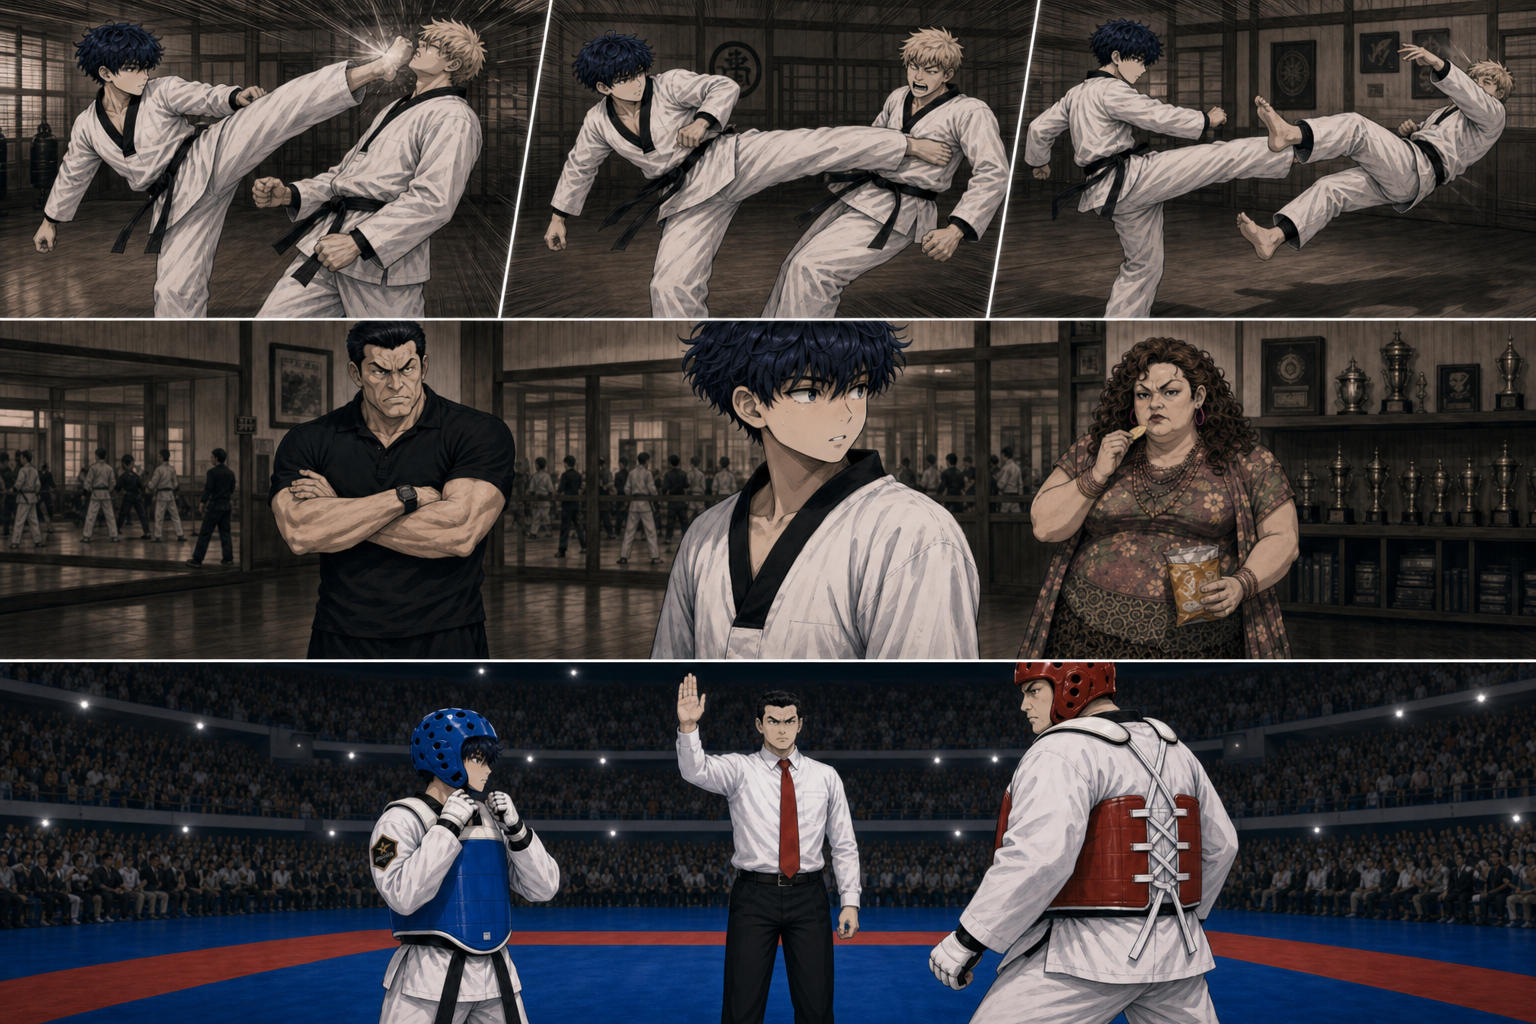
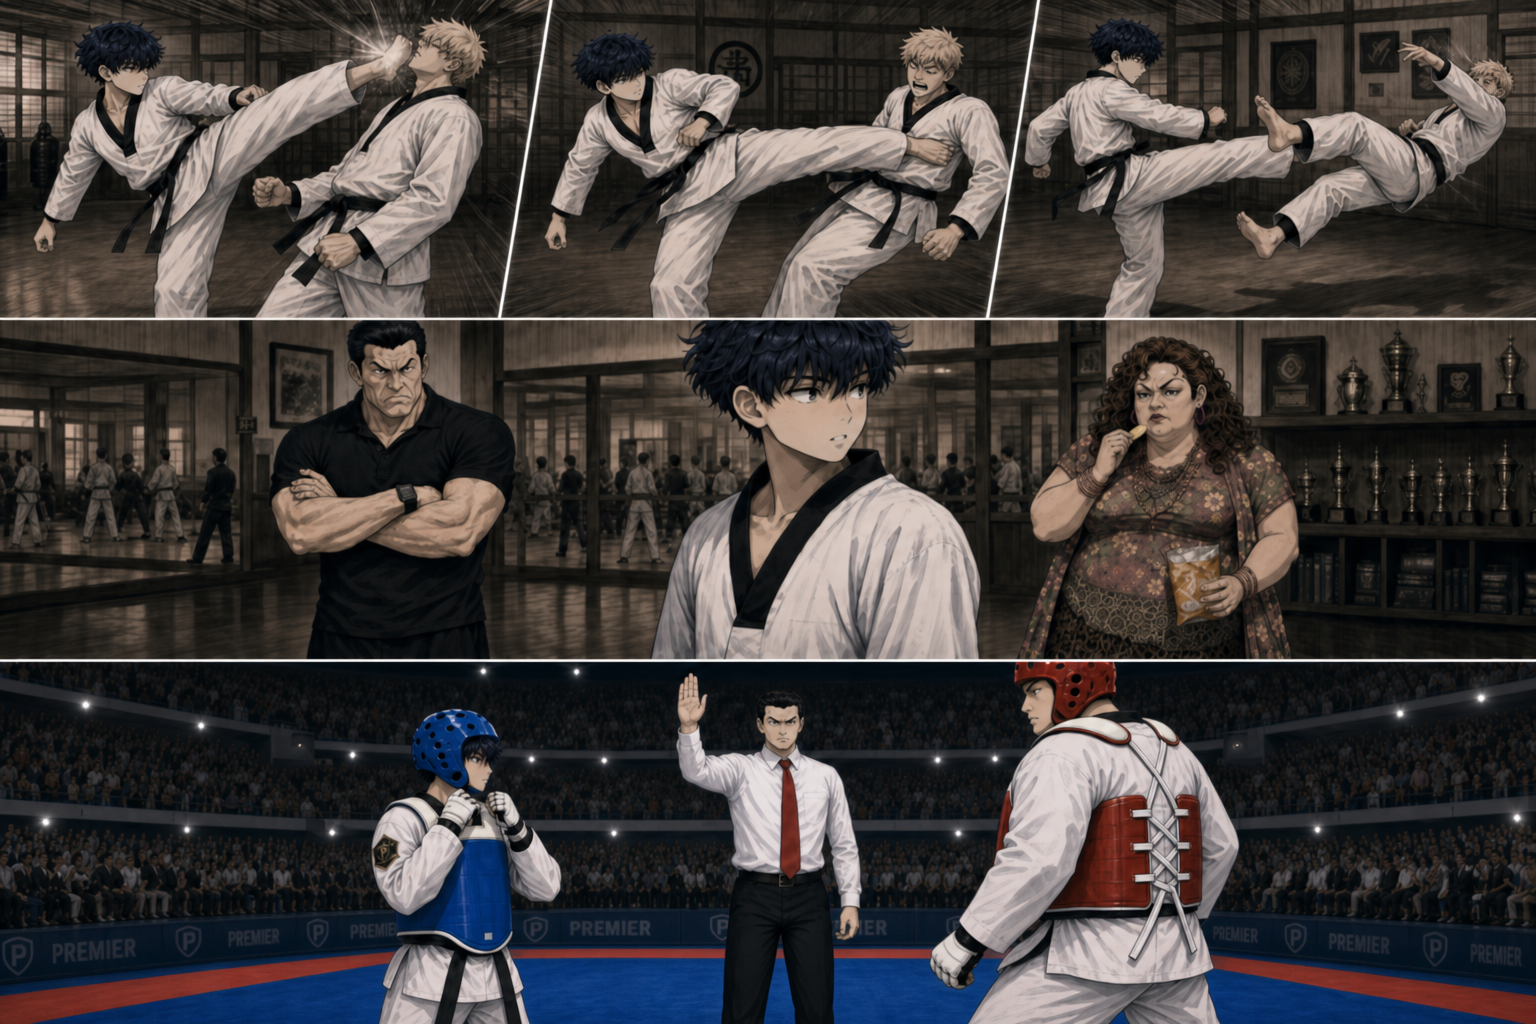
Lock red opponent character spec and update Page 5c ring start opponent.

diff --git a/arcs/new-beginnings/chapter-01.html b/arcs/new-beginnings/chapter-01.html
@@ -20,7 +20,7 @@
   </header>
 
   <main class="webtoon-manhwa">
-    <figure class="manhwa-page" id="manhwa-page0"><img src="../../gallery/strips/arc-01/chapter-01-page-0-prelude-voices.png?v=1781712610" alt="PAGE 0 — Voices in the dark (prelude)" loading="lazy" class="manhwa-page-img"></figure><figure class="manhwa-page" id="manhwa-page1a"><img src="../../gallery/strips/arc-01/chapter-01-page-1a-arrival.png?v=1781715004" alt="PAGE 1a — Arrival (1.1–1.3)" loading="lazy" class="manhwa-page-img"></figure><figure class="manhwa-page" id="manhwa-page1b"><img src="../../gallery/strips/arc-01/chapter-01-page-1b-change.png?v=1781714749" alt="PAGE 1b — Change (1.4, 1.6–1.7)" loading="lazy" class="manhwa-page-img"></figure><figure class="manhwa-page" id="manhwa-page2"><img src="../../gallery/strips/arc-01/chapter-01-page-2-neglect-warmup.png?v=1781715206" alt="PAGE 2 — Neglect &amp; Warmup (1.7b–1.8)" loading="lazy" class="manhwa-page-img"></figure><figure class="manhwa-page" id="manhwa-page4"><img src="../../gallery/strips/arc-01/chapter-01-page-3-isolation.png?v=1781715391" alt="PAGE 4 — Isolation &amp; Wait (1.17–1.26)" loading="lazy" class="manhwa-page-img"></figure><figure class="manhwa-page" id="manhwa-page5a"><img src="../../gallery/strips/arc-01/chapter-01-page-5a-bleachers-contract.png?v=1781716912" alt="PAGE 5a — Bleachers &amp; contract (1.27–1.28)" loading="lazy" class="manhwa-page-img"></figure><figure class="manhwa-page" id="manhwa-page5b"><img src="../../gallery/strips/arc-01/chapter-01-page-5b-called-walk.png?v=1781717090" alt="PAGE 5b — Called &amp; walk past (1.29–1.30)" loading="lazy" class="manhwa-page-img"></figure><figure class="manhwa-page" id="manhwa-page5c"><img src="../../gallery/strips/arc-01/chapter-01-page-5c-dojang-montage.png?v=1781718287" alt="PAGE 5c — Dojang montage &amp; ring start (1.31–1.33)" loading="lazy" class="manhwa-page-img"></figure><figure class="manhwa-page" id="manhwa-page6a"><img src="../../gallery/strips/arc-01/chapter-01-page-6a-cards-bounty.png?v=1781722280" alt="PAGE 6a — Fighter cards &amp; bounty (1.35–1.37)" loading="lazy" class="manhwa-page-img"></figure><figure class="manhwa-page" id="manhwa-page6b"><img src="../../gallery/strips/arc-01/chapter-01-page-6b-charge-hook.png?v=1781722598" alt="PAGE 6b — Charge &amp; hook kick (1.41–1.43)" loading="lazy" class="manhwa-page-img"></figure><figure class="manhwa-page" id="manhwa-page7"><img src="../../gallery/strips/arc-01/chapter-01-page-7-ko-aftermath.png?v=1781717433" alt="PAGE 7 — Score, silence &amp; black (1.44–1.45)" loading="lazy" class="manhwa-page-img"></figure><figure class="manhwa-page" id="manhwa-page8"><img src="../../gallery/strips/arc-01/chapter-01-page-8-wake.png?v=1781717605" alt="PAGE 8 — Wake (1.46–1.48)" loading="lazy" class="manhwa-page-img"></figure>
+    <figure class="manhwa-page" id="manhwa-page0"><img src="../../gallery/strips/arc-01/chapter-01-page-0-prelude-voices.png?v=1781712610" alt="PAGE 0 — Voices in the dark (prelude)" loading="lazy" class="manhwa-page-img"></figure><figure class="manhwa-page" id="manhwa-page1a"><img src="../../gallery/strips/arc-01/chapter-01-page-1a-arrival.png?v=1781715004" alt="PAGE 1a — Arrival (1.1–1.3)" loading="lazy" class="manhwa-page-img"></figure><figure class="manhwa-page" id="manhwa-page1b"><img src="../../gallery/strips/arc-01/chapter-01-page-1b-change.png?v=1781714749" alt="PAGE 1b — Change (1.4, 1.6–1.7)" loading="lazy" class="manhwa-page-img"></figure><figure class="manhwa-page" id="manhwa-page2"><img src="../../gallery/strips/arc-01/chapter-01-page-2-neglect-warmup.png?v=1781715206" alt="PAGE 2 — Neglect &amp; Warmup (1.7b–1.8)" loading="lazy" class="manhwa-page-img"></figure><figure class="manhwa-page" id="manhwa-page4"><img src="../../gallery/strips/arc-01/chapter-01-page-3-isolation.png?v=1781715391" alt="PAGE 4 — Isolation &amp; Wait (1.17–1.26)" loading="lazy" class="manhwa-page-img"></figure><figure class="manhwa-page" id="manhwa-page5a"><img src="../../gallery/strips/arc-01/chapter-01-page-5a-bleachers-contract.png?v=1781716912" alt="PAGE 5a — Bleachers &amp; contract (1.27–1.28)" loading="lazy" class="manhwa-page-img"></figure><figure class="manhwa-page" id="manhwa-page5b"><img src="../../gallery/strips/arc-01/chapter-01-page-5b-called-walk.png?v=1781717090" alt="PAGE 5b — Called &amp; walk past (1.29–1.30)" loading="lazy" class="manhwa-page-img"></figure><figure class="manhwa-page" id="manhwa-page5c"><img src="../../gallery/strips/arc-01/chapter-01-page-5c-dojang-montage.png?v=1781723092" alt="PAGE 5c — Dojang montage &amp; ring start (1.31–1.33)" loading="lazy" class="manhwa-page-img"></figure><figure class="manhwa-page" id="manhwa-page6a"><img src="../../gallery/strips/arc-01/chapter-01-page-6a-cards-bounty.png?v=1781722280" alt="PAGE 6a — Fighter cards &amp; bounty (1.35–1.37)" loading="lazy" class="manhwa-page-img"></figure><figure class="manhwa-page" id="manhwa-page6b"><img src="../../gallery/strips/arc-01/chapter-01-page-6b-charge-hook.png?v=1781722598" alt="PAGE 6b — Charge &amp; hook kick (1.41–1.43)" loading="lazy" class="manhwa-page-img"></figure><figure class="manhwa-page" id="manhwa-page7"><img src="../../gallery/strips/arc-01/chapter-01-page-7-ko-aftermath.png?v=1781717433" alt="PAGE 7 — Score, silence &amp; black (1.44–1.45)" loading="lazy" class="manhwa-page-img"></figure><figure class="manhwa-page" id="manhwa-page8"><img src="../../gallery/strips/arc-01/chapter-01-page-8-wake.png?v=1781717605" alt="PAGE 8 — Wake (1.46–1.48)" loading="lazy" class="manhwa-page-img"></figure>
   </main>
   
 

diff --git a/storyboards/arc-01-panel-storyboard.md b/storyboards/arc-01-panel-storyboard.md
@@ -200,7 +200,7 @@ Use when generating **one PNG per page** (not one PNG per panel). Dialogue stays
 |-----|-------|-------|
 | R1 | Tri-cut ~40% | **1.31 FLASH** head kick \| roundhouse \| push kick down |
 | R2 | Wide ~30% | **1.32 FLASH dojang** Ttong arms crossed displeased watching · Repeul chips · Ethan looks back |
-| R3 | Wide ~30% | **1.33 PRESENT** Ethan helmet on in ring · ref hand raised · taller **red hogu** opponent |
+| R3 | Wide ~30% | **1.33 PRESENT** Ethan helmet on in ring · ref hand raised · **same lean tall red opponent as PAGE 6b** (NOT heavyset) |
 
 **Refs:** `dobok-front` · `gear-front` · `ttong-kim` · `repeul-kim` · style anchor PAGE 5b
 